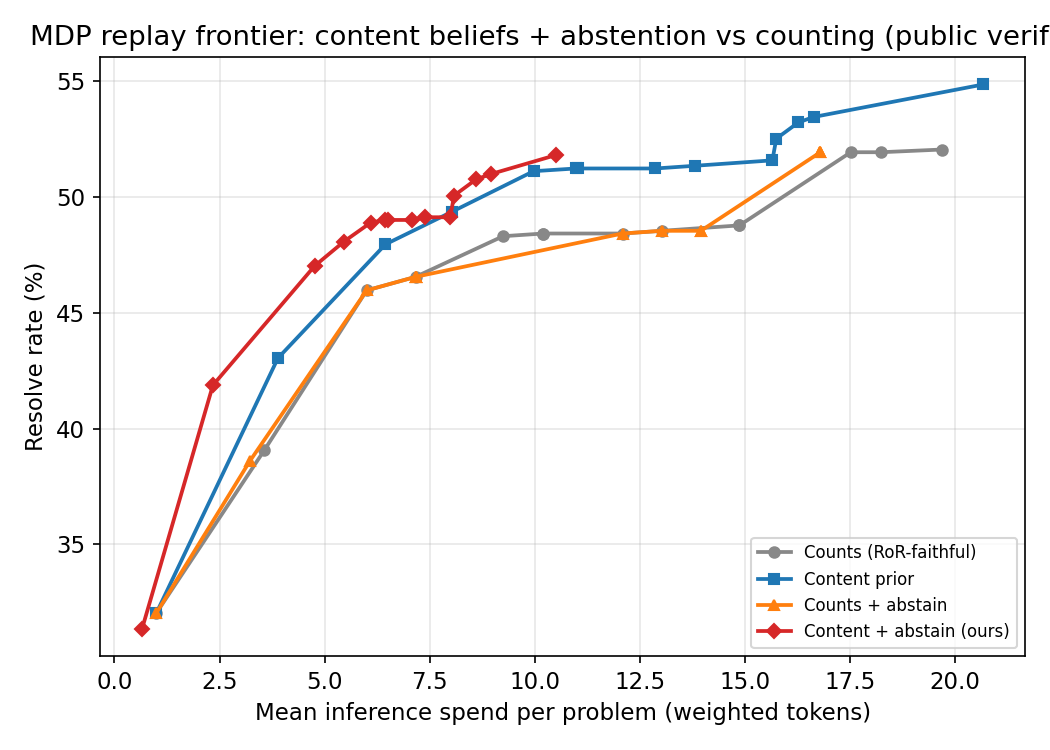
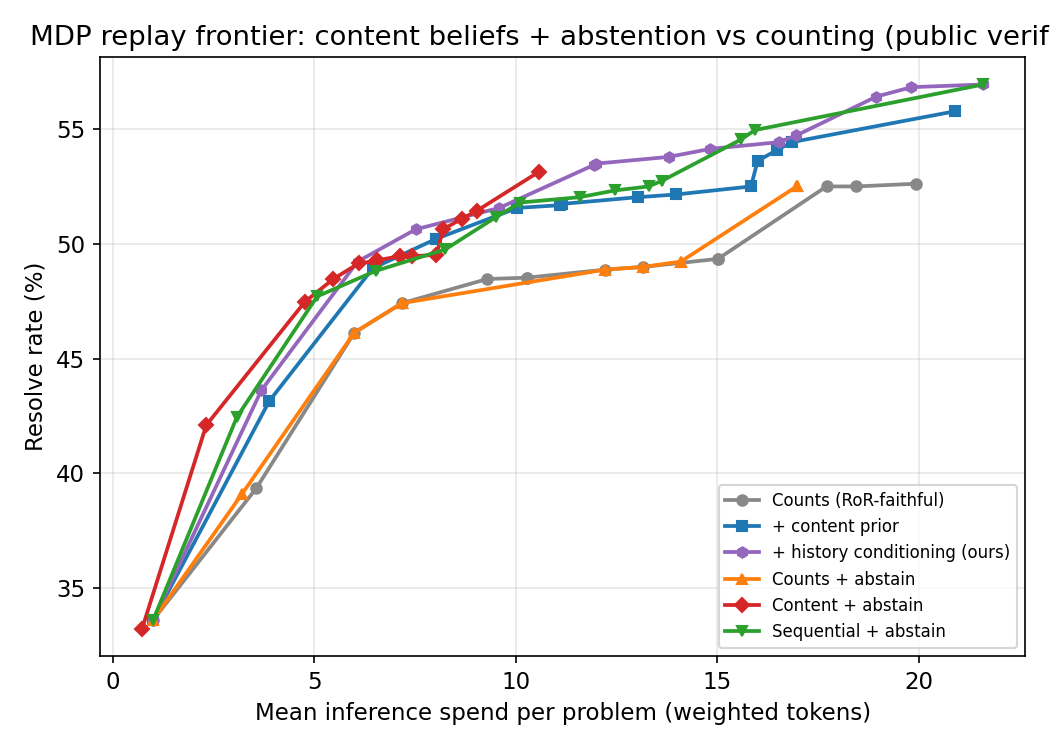
Wire sequential MDP policy into replay; full capability-ladder frontier + updated figures

diff --git a/pipelinerl/swe/scripts/livecodebench/replay_mdp_baseline.py b/pipelinerl/swe/scripts/livecodebench/replay_mdp_baseline.py
@@ -46,6 +46,7 @@ def replay_problem(
     policy: str = "greedy",
     rng: np.random.Generator | None = None,
     tau_abstain: float | None = None,
+    seq_probs: np.ndarray | None = None,
 ) -> dict[str, Any]:
     """Run one episode under a fixed draw-ordering. Returns spend + correctness."""
     M = len(C)
@@ -59,6 +60,27 @@ def replay_problem(
         # early stop: verifier already accepted a draw
         if submitted_idx is not None:
             break
+        # sequential policy: history-conditioned probabilities at current decision point
+        if seq_probs is not None:
+            depth = int(ptr[0])   # scout draws consumed == decision depth
+            depth = min(depth, 9)
+            ps = seq_probs[depth]
+            if tau_abstain is not None and ps[3] > tau_abstain:
+                break
+            avail_vals = {0: ps[0] / C[0], 1: ps[1] / C[1], 2: ps[2] / C[2]}
+            avail = [m for m in (0, 1, 2) if ptr[m] < R_pub.shape[1] and spent + C[m] <= budget]
+            if not avail:
+                break
+            m_star = min(avail, key=lambda m: -avail_vals[m])
+            k = int(orderings[m_star][ptr[m_star]])
+            ptr[m_star] += 1
+            spent += C[m_star]
+            pub = bool(R_pub[m_star][k])
+            w[m_star] += float(pub)
+            if pub and submitted_idx is None:
+                submitted_idx = (m_star, k)
+            continue
+
         # abstain arm: give up when estimated P(any model succeeds) <= tau
         if tau_abstain is not None:
             p_each = np.array([(S * prior[m] + w[m]) / (S + n[m]) for m in range(M)])
@@ -142,6 +164,9 @@ def main() -> None:
     parser.add_argument("--content-preds", default=None,
                         help="adapted eval_predictions.jsonl with p_successes per problem "
                              "(static content prior); enables the content cells")
+    parser.add_argument("--seq-preds", default=None,
+                        help="test_predictions.jsonl from train_mdp_sequential_policy.py "
+                             "(per problem_id+depth probabilities); enables the sequential cells")
     args = parser.parse_args()
 
     d = load_tensors(Path(args.tensors_dir))
@@ -204,26 +229,40 @@ def main() -> None:
                 content[str(r["problem_id"])] = np.array(r["p_successes"], dtype=float)
         print(f"loaded content priors for {len(content)} problems")
 
-    def episode(pi_local, oi_local, B, use_content, tau):
-        prior_vec = (
-            content.get(str(d["problem_ids"][pi_local]), prior)
-            if use_content else prior
-        )
+    seq_preds = None
+    if args.seq_preds:
+        seq_preds = {}
+        with open(args.seq_preds) as f:
+            for line in f:
+                r = json.loads(line)
+                seq_preds[(str(r["problem_id"]), int(r["depth"]))] = np.array(
+                    r["p_successes"], dtype=float)
+        print(f"loaded sequential predictions for {len(seq_preds)} decision points")
+
+    def episode(pi_local, oi_local, B, use_content, tau, seq=False):
+        pid = str(d["problem_ids"][pi_local])
+        prior_vec = content.get(pid, prior) if use_content else prior
+        sp_table = None
+        if seq and seq_preds is not None:
+            sp_table = {depth: v for (p_, depth), v in seq_preds.items() if p_ == pid}
+            if not sp_table:
+                sp_table = None
         return replay_problem(
             R_pub[pi_local], R_full[pi_local], C, orders[pi_local, oi_local], B,
-            prior_vec, S=args.pseudo_count, policy="greedy", tau_abstain=tau)
+            prior_vec, S=args.pseudo_count, policy="greedy", tau_abstain=tau,
+            seq_probs=sp_table)
 
-    def run_split(split_idx, B, use_content, tau):
+    def run_split(split_idx, B, use_content, tau, seq=False):
         idx = cal_idx if split_idx == "cal" else test_idx
         corrs, spends = [], []
         for pi_local in idx:
             for oi_local in range(args.num_orderings):
-                out = episode(int(pi_local), oi_local, B, use_content, tau)
+                out = episode(int(pi_local), oi_local, B, use_content, tau, seq=seq)
                 corrs.append(out["correct"]); spends.append(out["spend"])
         return float(np.mean(corrs)), float(np.mean(spends))
 
-    def evaluate(cell_name, B, use_content, tau):
-        corr_t, spend_t = run_split("test", B, use_content, tau)
+    def evaluate(cell_name, B, use_content, tau, seq=False):
+        corr_t, spend_t = run_split("test", B, use_content, tau, seq=seq)
         row = {"cell": cell_name, "budget": B, "tau": tau,
                "correctness": corr_t, "mean_cost": spend_t,
                "n_episodes": len(test_idx) * args.num_orderings}
@@ -262,6 +301,18 @@ def main() -> None:
             ok = [c for c in cand if c[1] >= RETAIN_FRAC * base_corr_cc]
             tau_star_c = min(ok, key=lambda c: c[2])[0] if ok else None
             evaluate("content_abstain", B, True, tau_star_c)
+
+        # sequential policy (history-conditioned): no-abstain + calibrated abstain
+        if seq_preds is not None:
+            evaluate("sequential", B, False, None, seq=True)
+            base_corr_sq, _ = run_split("cal", B, False, None, seq=True)
+            cand = []
+            for tau in tau_grid:
+                corr_c, spend_c = run_split("cal", B, False, tau, seq=True)
+                cand.append((tau, corr_c, spend_c))
+            ok = [c for c in cand if c[1] >= RETAIN_FRAC * base_corr_sq]
+            tau_star_s = min(ok, key=lambda c: c[2])[0] if ok else None
+            evaluate("sequential_abstain", B, False, tau_star_s, seq=True)
 
     out = Path(args.output_dir)
     out.mkdir(parents=True, exist_ok=True)

diff --git a/pipelinerl/swe/scripts/livecodebench/generate_mdp_paper_figures.py b/pipelinerl/swe/scripts/livecodebench/generate_mdp_paper_figures.py
@@ -23,9 +23,11 @@ plt.rcParams.update({"font.size": 11, "figure.dpi": 150})
 
 CELL_STYLE = {
     "counts": dict(color="#888888", marker="o", label="Counts (RoR-faithful)"),
-    "content": dict(color="#1f77b4", marker="s", label="Content prior"),
-    "counts_abstain": dict(color="#ff7f0e", marker="^", label="Counts + abstain"),
-    "content_abstain": dict(color="#d62728", marker="D", label="Content + abstain (ours)"),
+    "content": dict(color="#1f77b4", marker="s", label="+ content prior"),
+    "sequential": dict(color="#9467bd", marker="h", label="+ history conditioning (ours)"),
+    "counts_abstain": dict(color="#ff7f0e", marker="^", ls="--", label="Counts + abstain"),
+    "content_abstain": dict(color="#d62728", marker="D", ls="--", label="Content + abstain"),
+    "sequential_abstain": dict(color="#2ca02c", marker="v", ls="--", label="Sequential + abstain"),
 }
 
 
@@ -35,7 +37,7 @@ def load(path):
 
 # ── Figure 1: MDP frontier, 2x2 factorial + fixed baselines ─────────────────
 def fig_frontier():
-    d = load("/mnt/llmd/results/exps/aristides/reason/mdp_replay_v1_2x2/replay_results.json")
+    d = load("/mnt/llmd/results/exps/aristides/reason/mdp_replay_v1_full/replay_results.json")
     fig, ax = plt.subplots(figsize=(7, 5))
 
     by_cell = {}
